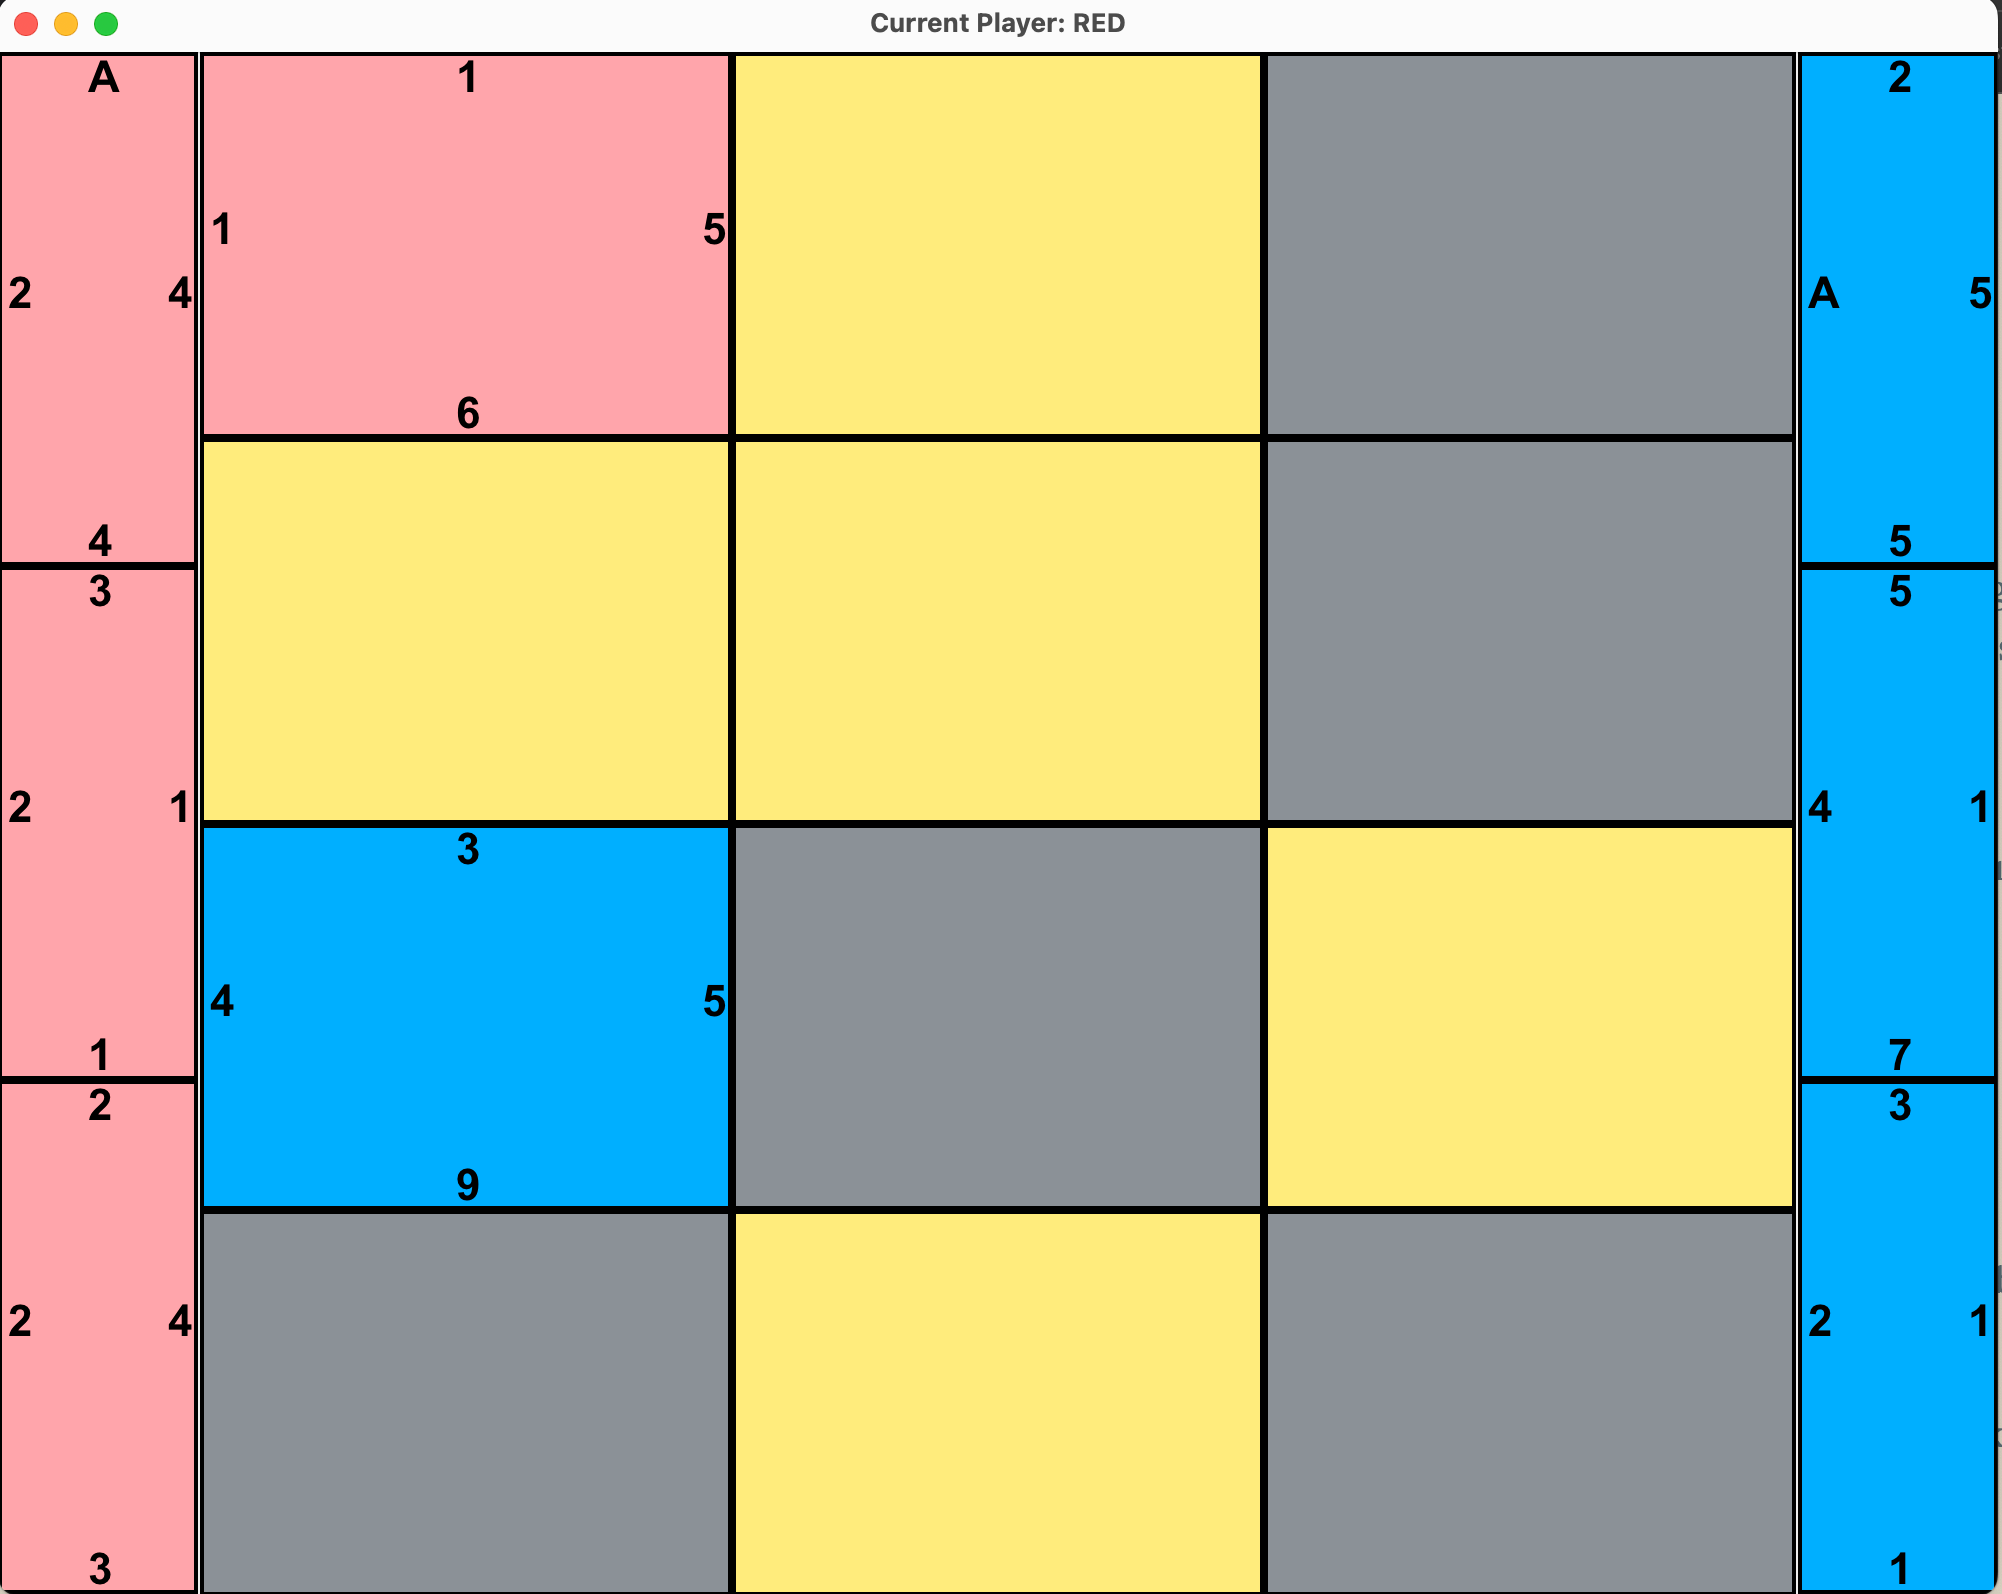
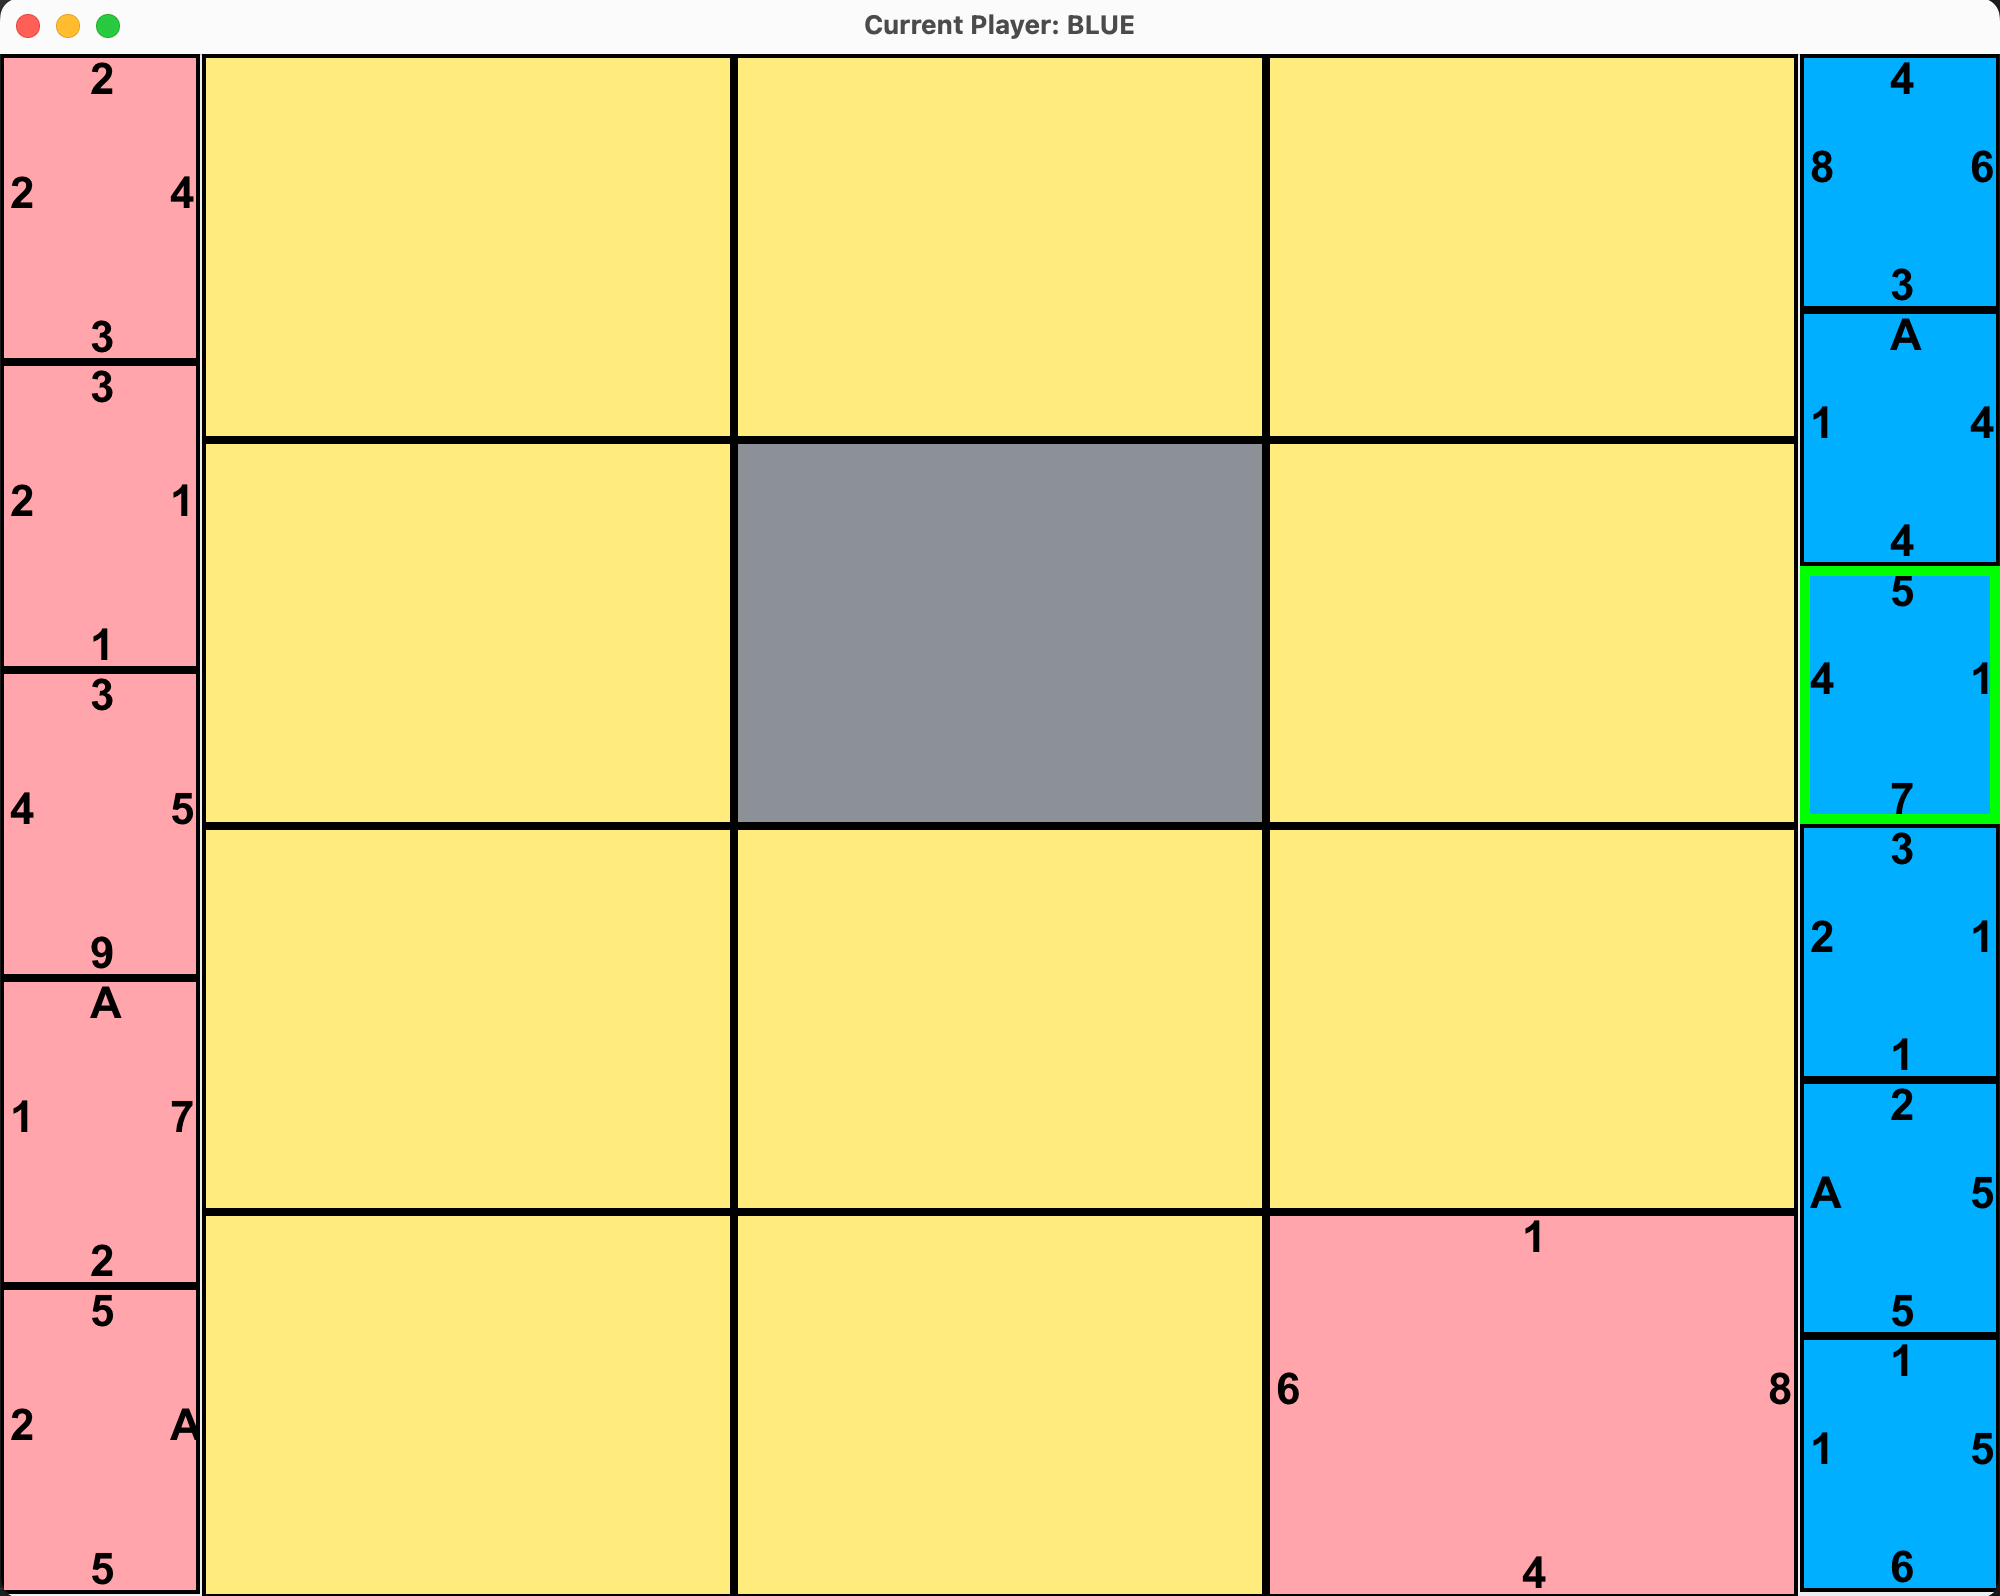
I fix the style part 3 + change the screenshots

diff --git a/src/cs3500/threetrios/view/TTPanel.java b/src/cs3500/threetrios/view/TTPanel.java
@@ -47,7 +47,8 @@ class TTPanel extends JPanel implements ThreeTriosPanel {
     // Create grid panel
     gridPanel = new JPanel();
     gridPanel.setLayout(new GridLayout(
-            model.getGridReadOnly().size(), model.getGridReadOnly().get(0).size(), 0, 0));
+            model.getGridReadOnly().size(), model.getGridReadOnly().get(0).size(), 0,
+            0));
     this.add(gridPanel, BorderLayout.CENTER);
 
     // Create player panels
@@ -85,17 +86,21 @@ class TTPanel extends JPanel implements ThreeTriosPanel {
    * the newly created card panel to the corresponding player panel.
    */
   private void renderPlayerCards() {
-    for (int redHandIndex = 0; redHandIndex < model.getRedPlayer().getHand().size(); redHandIndex++) {
+    for (int redHandIndex = 0; redHandIndex < model.getRedPlayer().getHand().size();
+         redHandIndex++) {
       Card card = model.getRedPlayer().getHand().get(redHandIndex);
       CardPanel cardPanel = createCardPanel(TeamColor.RED, card.toString());
-      cardPanel.addMouseListener(new CardInHandClickListener(cardPanel, redHandIndex, TeamColor.RED));
+      cardPanel.addMouseListener(new CardInHandClickListener(cardPanel, redHandIndex,
+              TeamColor.RED));
       redPlayerPanel.add(cardPanel);
     }
 
-    for (int blueHandIndex = 0; blueHandIndex < model.getBluePlayer().getHand().size(); blueHandIndex++) {
+    for (int blueHandIndex = 0; blueHandIndex < model.getBluePlayer().getHand().size();
+         blueHandIndex++) {
       Card card = model.getBluePlayer().getHand().get(blueHandIndex);
       CardPanel cardPanel = createCardPanel(TeamColor.BLUE, card.toString());
-      cardPanel.addMouseListener(new CardInHandClickListener(cardPanel, blueHandIndex, TeamColor.BLUE));
+      cardPanel.addMouseListener(new CardInHandClickListener(cardPanel, blueHandIndex,
+              TeamColor.BLUE));
       bluePlayerPanel.add(cardPanel);
     }
   }

diff --git a/test/cs3500/threetrios/strategy/CornerStrategyTest.java b/test/cs3500/threetrios/strategy/CornerStrategyTest.java
@@ -1,11 +1,9 @@
 package cs3500.threetrios.strategy;
 
-
 import org.junit.Assert;
 import org.junit.Before;
 import org.junit.Test;
 
-import java.util.List;
 import java.util.Random;
 
 import cs3500.threetrios.controller.BasicThreeTriosController;
@@ -142,11 +140,11 @@ public class CornerStrategyTest {
   }
 
   // Test One Corner Taken
-    @Test
-    public void testOneCornerTaken() {
+  @Test
+  public void testOneCornerTaken() {
     controller4x3CornersWithHolesVer2.playGame(model4x3CornersWithHolesVer2);
 
-    System.out.println( new CornerStrategy().findBestMove(model4x3CornersWithHolesVer2,
+    System.out.println(new CornerStrategy().findBestMove(model4x3CornersWithHolesVer2,
             model4x3CornersWithHolesVer2.getCurrentPlayer()));
     //Total that card value is 15.
     Assert.assertEquals(0, new CornerStrategy().findBestMove(model4x3CornersWithHolesVer2,
@@ -155,7 +153,7 @@ public class CornerStrategyTest {
             model4x3CornersWithHolesVer2.getCurrentPlayer()).getCol());
     Assert.assertEquals(1, new CornerStrategy().findBestMove(model4x3CornersWithHolesVer2,
             model4x3CornersWithHolesVer2.getCurrentPlayer()).getHandInx());
-    }
+  }
 
   // Test tie that have many best cards from different corners
   @Test
@@ -215,7 +213,7 @@ public class CornerStrategyTest {
   public void testPlayCornerAndFlip() {
     controller4x3.playGame(model4x3);
     model4x3.playToGrid(3, 1, 1);
-    model4x3.playToGrid(1 ,0 ,1);
+    model4x3.playToGrid(1, 0, 1);
     model4x3.playToGrid(2, 2, 2);
     model4x3.playToGrid(1, 1, 0);
 

diff --git a/test/cs3500/threetrios/strategy/MinimaxStrategyTest.java b/test/cs3500/threetrios/strategy/MinimaxStrategyTest.java
@@ -23,9 +23,6 @@ public class MinimaxStrategyTest {
   private ThreeTriosController controller4x3EqualSides;
   private ThreeTriosModel model4x32Holes;
   private ThreeTriosController controller4x32Holes;
-  private ThreeTriosStrategy cornerStrategy;
-  private ThreeTriosStrategy maxinumFlipStrategy;
-  private ThreeTriosStrategy minimizeFlipStrategy;
   private List<ThreeTriosStrategy> listCorner;
   private List<ThreeTriosStrategy> listMaximum;
   private List<ThreeTriosStrategy> listMinimum;
@@ -50,9 +47,9 @@ public class MinimaxStrategyTest {
     controller4x32Holes = new BasicThreeTriosController("world4x32holes.txt",
             "cards4x3emptyver2.txt");
 
-    cornerStrategy = new CornerStrategy();
-    maxinumFlipStrategy = new MaximizeFlipsStrategy();
-    minimizeFlipStrategy = new MinimizeFlipsStrategy();
+    ThreeTriosStrategy cornerStrategy = new CornerStrategy();
+    ThreeTriosStrategy maxinumFlipStrategy = new MaximizeFlipsStrategy();
+    ThreeTriosStrategy minimizeFlipStrategy = new MinimizeFlipsStrategy();
     listCorner = List.of(cornerStrategy);
     listMaximum = List.of(maxinumFlipStrategy);
     listMinimum = List.of(minimizeFlipStrategy);

diff --git a/src/cs3500/threetrios/ThreeTrios.java b/src/cs3500/threetrios/ThreeTrios.java
@@ -20,13 +20,13 @@ public class ThreeTrios {
   public static void main(String[] args) {
     Random rand1 = new Random(2);
     BasicThreeTriosModel model4x3 = new BasicThreeTriosModel(rand1);
-    BasicThreeTriosController controller = new BasicThreeTriosController("world4x32holes.txt", "cards4x3emptyver2.txt");
+    BasicThreeTriosController controller = new BasicThreeTriosController("world4x31hole.txt",
+            "cards4x3emptyver2.txt");
 
     controller.playGame(model4x3);
-    model4x3.playToGrid(2, 2, 0);
-    model4x3.playToGrid(0, 1, 2);
-    model4x3.playToGrid(3, 0, 0);
-    model4x3.playToGrid(0, 2, 1);
+    model4x3.playToGrid(3, 2, 0);
+//    model4x3.playToGrid(0, 1, 2);
+////    model4x3.playToGrid(2, 0, 1);
 
 
     TTGUIView view = new TTGUIView(model4x3);

diff --git a/src/cs3500/threetrios/strategy/ChainStrategy.java b/src/cs3500/threetrios/strategy/ChainStrategy.java
@@ -14,7 +14,8 @@ import java.util.List;
  * move then we choose the upper-most, left-most open position and the card at index 0. For the
  * input list, it is best to not put MaximizeFlip at the front of the list since it won't return
  * null as our grid must have an odd number of card cells (which always guarantee at least 1
- * CardCell for every game board). And this ensures that this strategy won't ever return null for its best move.
+ * CardCell for every game board). And this ensures that this strategy won't ever return null
+ * for its best move.
  **/
 
 public class ChainStrategy implements ThreeTriosStrategy {

diff --git a/src/cs3500/threetrios/strategy/CornerStrategy.java b/src/cs3500/threetrios/strategy/CornerStrategy.java
@@ -33,7 +33,8 @@ public class CornerStrategy implements ThreeTriosStrategy {
   }
 
   // Helper method to handle when the strategy returns null for the best move.
-  private PlayedMove handleNullMove(ReadOnlyThreeTriosModel model, Player player, PlayedMove bestMove) {
+  private PlayedMove handleNullMove(ReadOnlyThreeTriosModel model, Player player,
+                                    PlayedMove bestMove) {
     if (bestMove == null && !player.getHand().isEmpty()) {
       for (int row = 0; row < model.numRows(); row++) {
         for (int col = 0; col < model.numCols(); col++) {

diff --git a/src/cs3500/threetrios/strategy/MinimizeFlipsStrategy.java b/src/cs3500/threetrios/strategy/MinimizeFlipsStrategy.java
@@ -36,7 +36,8 @@ public class MinimizeFlipsStrategy implements ThreeTriosStrategy {
     }
   }
 
-  private static BasicMove handleNullMove(ReadOnlyThreeTriosModel model, Player player, PlayedMove bestMove) {
+  private static BasicMove handleNullMove(ReadOnlyThreeTriosModel model, Player player,
+                                          PlayedMove bestMove) {
     if (bestMove == null && !player.getHand().isEmpty()) {
       for (int row = 0; row < model.numRows(); row++) {
         for (int col = 0; col < model.numCols(); col++) {

diff --git a/src/cs3500/threetrios/strategy/MinimaxStrategy.java b/src/cs3500/threetrios/strategy/MinimaxStrategy.java
@@ -44,7 +44,8 @@ public class MinimaxStrategy implements ThreeTriosStrategy {
     }
   }
 
-  private static BasicMove handleNullMove(ReadOnlyThreeTriosModel model, Player player, PlayedMove bestMove) {
+  private static BasicMove handleNullMove(ReadOnlyThreeTriosModel model, Player player,
+                                          PlayedMove bestMove) {
     if (bestMove == null && !player.getHand().isEmpty()) {
       for (int row = 0; row < model.numRows(); row++) {
         for (int col = 0; col < model.numCols(); col++) {

diff --git a/test/cs3500/threetrios/model/MockThreeTriosModelTest.java b/test/cs3500/threetrios/model/MockThreeTriosModelTest.java
@@ -54,7 +54,8 @@ public class MockThreeTriosModelTest {
           Assert.assertTrue(
                   log.contains("checking at cell (" + row + ", " + col + ")"));
           Assert.assertTrue(
-                  log.contains("checking number of card flips for card at cell (" + row + ", " + col + ") for Player: " + "RED"));
+                  log.contains("checking number of card flips for card at cell (" + row + ", "
+                          + col + ") for Player: " + "RED"));
         }
       }
     }

diff --git a/src/cs3500/threetrios/view/TTGUIView.java b/src/cs3500/threetrios/view/TTGUIView.java
@@ -5,6 +5,9 @@ import java.awt.BorderLayout;
 import cs3500.threetrios.model.ReadOnlyThreeTriosModel;
 import java.awt.Component;
 
+/**
+ * Represent the TTGUIView class to show the graphical view for the ThreeTrios game.
+ */
 public class TTGUIView extends JFrame implements ThreeTriosGUIView {
   private final ThreeTriosPanel gridPanel;
 

diff --git a/test/cs3500/threetrios/strategy/MaximizeFlipsStrategyTest.java b/test/cs3500/threetrios/strategy/MaximizeFlipsStrategyTest.java
@@ -4,7 +4,6 @@ import org.junit.Assert;
 import org.junit.Before;
 import org.junit.Test;
 
-import java.util.List;
 import java.util.Random;
 
 import cs3500.threetrios.controller.BasicThreeTriosController;

diff --git a/test/cs3500/threetrios/strategy/MinimizeFlipsStrategyTest.java b/test/cs3500/threetrios/strategy/MinimizeFlipsStrategyTest.java
@@ -5,7 +5,6 @@ import org.junit.Assert;
 import org.junit.Before;
 import org.junit.Test;
 
-import java.util.List;
 import java.util.Random;
 
 import cs3500.threetrios.controller.BasicThreeTriosController;
